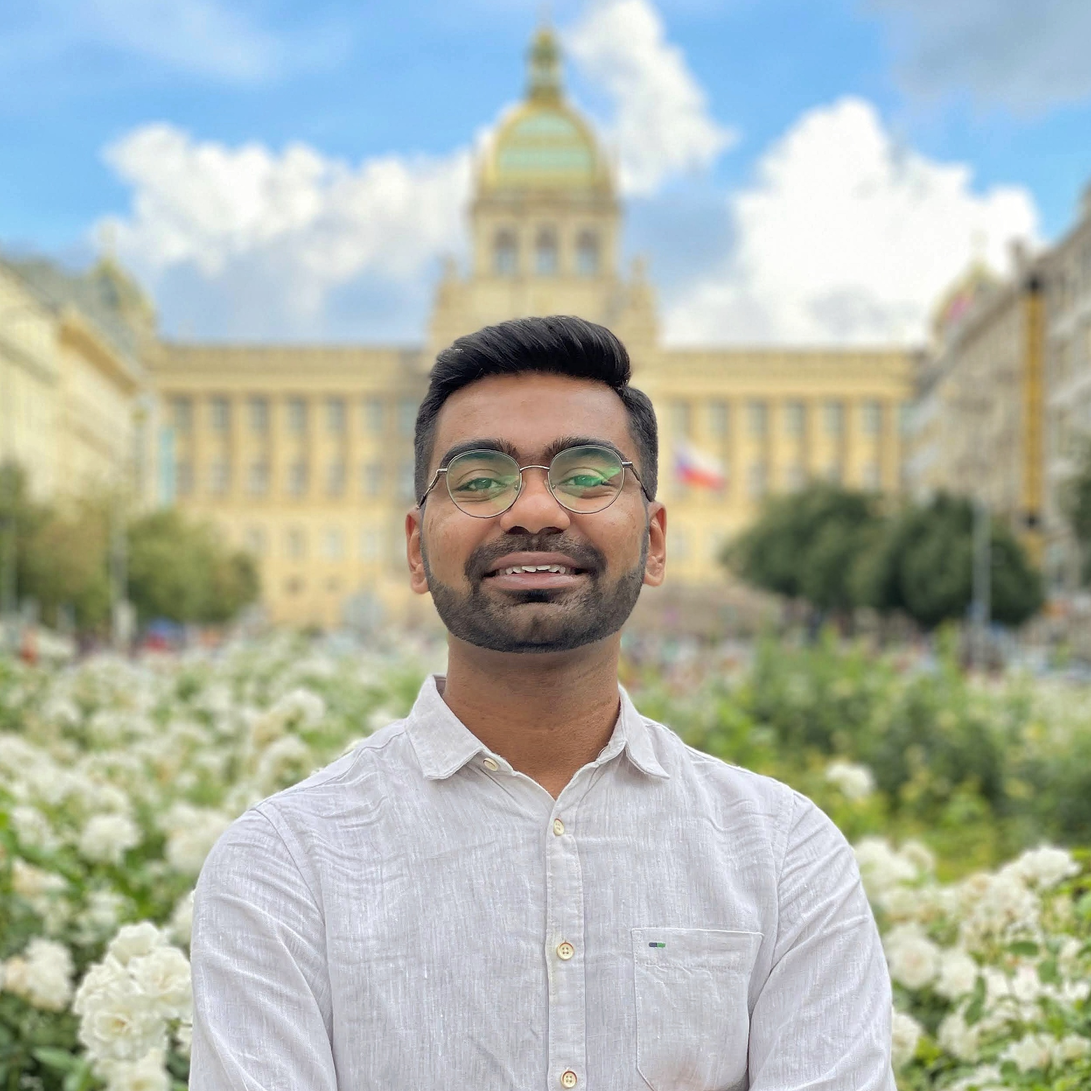
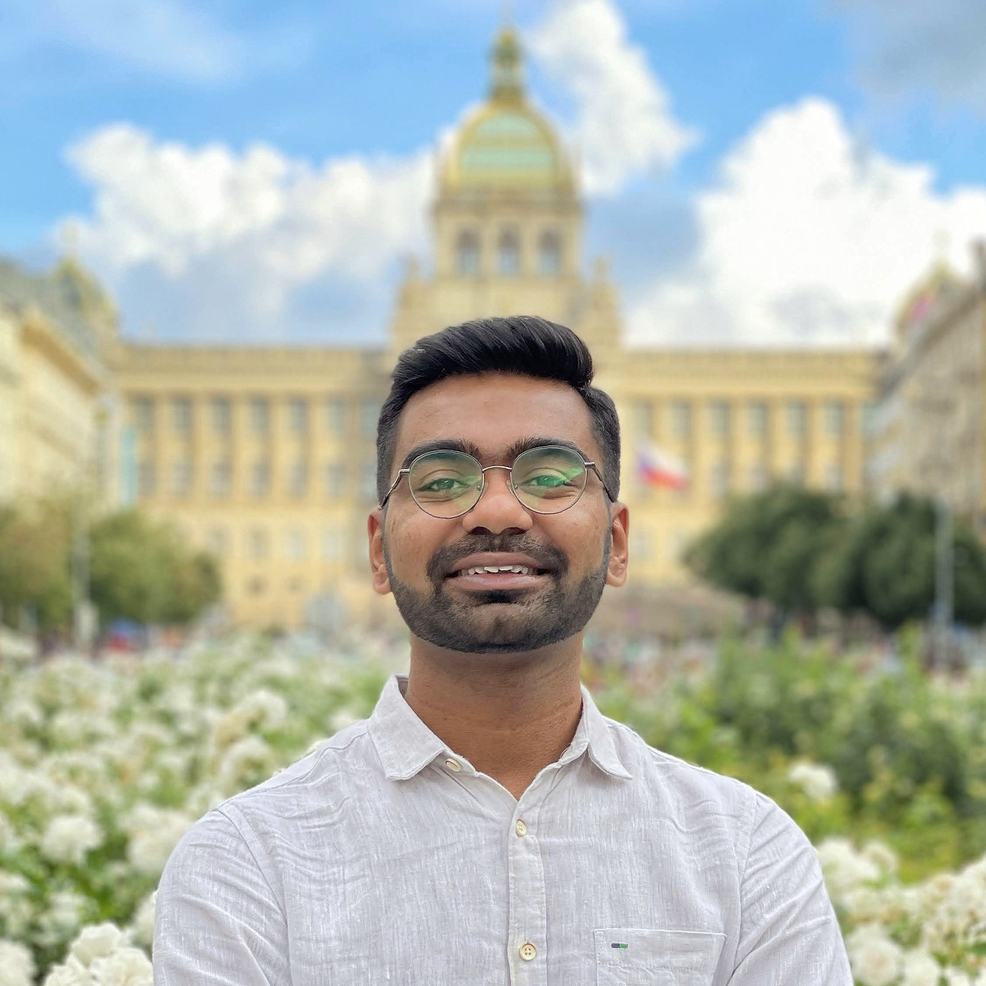
Modified emal id, photo

diff --git a/index.html b/index.html
@@ -102,21 +102,20 @@
 
           <div class="portrait-title">
             <h2 itemprop="name">Akshay Mundra</h2>
-            <h3 itemprop="jobTitle">akmu00001@stud.uni-saarland.de</h3>
+            <!-- <h3 itemprop="jobTitle">akmu00001@stud.uni-saarland.de</h3> -->
             <h3 itemprop="worksFor">Saarland University</h3>
             <h3 itemprop="worksFor">MPI Informatics</h3>
           </div>
 
           <ul class="social-icon" aria-hidden="true">
             
-            
             <li>
-              <a href="https://drive.google.com/file/d/1ClS6sxlKyjlcn4s8jX5j2vPCGZ5ePkBK/view?usp=sharing", target="_blank">
-                <i class="fa fa-file-pdf-o big-icon"></i>
+              <a href="mailto:akmu00001@stud.uni-saarland.de", target="_blank">
+                <i class="fa fa-envelope big-icon"></i>
               </a>
             </li>
-            <!-- TODO: update the CV -->
             
+
             
             <li>
               <a href="https://github.com/amundra15", target="_blank">
@@ -145,6 +144,14 @@
               </a>
             </li> -->
             
+            <li>
+              <a href="https://drive.google.com/file/d/1ClS6sxlKyjlcn4s8jX5j2vPCGZ5ePkBK/view?usp=sharing", target="_blank">
+                <i class="fa fa-file-pdf-o big-icon"></i>
+              </a>
+            </li>
+            <!-- TODO: update the CV -->
+            
+
           </ul>
 
         </div>
@@ -159,7 +166,7 @@
 <h1 id="biography">Biography</h1>
 
 <p>I am a soon-to-graduate student at <a href = "https://www.uni-saarland.de/en/home.html" target = "_blank">Saarland University</a> with a Master of Science in Visual Computing.
-  Previously, I graduated from BITS Pilani with a Bachelor of Engineering in Electronics and Instrumentation Engineering, and worked as a Computer Vision Engineer at DreamVu Inc. </p>
+  Previously, I graduated from <a href = "https://www.bits-pilani.ac.in/" target = "_blank">BITS Pilani</a> with a Bachelor of Engineering in Electronics and Instrumentation Engineering, and worked as a Computer Vision Engineer at <a href = "https://www.dreamvu.com/" target = "_blank">DreamVu Inc.</a> </p>
 
 <p>My interest lie in Imaging, Computer Vision and Computer Graphics. In my Masters thesis, I explore the intersection of these topics by developing a method that creates photorealistic 3D hand avatars from 2D images,
   enabling a personalized and intuitive interface for VR and AR applications. </p>
